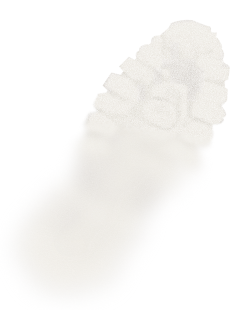
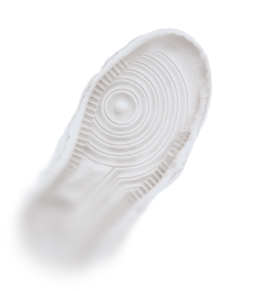
full article degree

Changed region(s): [[0.084, 0.0619, 0.924, 0.9278], [0.728, 0.2784, 0.756, 0.3093]]

diff --git a/src/pages/articals/artical-degree.html b/src/pages/articals/artical-degree.html
@@ -147,7 +147,7 @@
                   <div class="A_CardIconWrap_articals">
                     <img
                       class="Q_CardIcon"
-                      src="https://github.com/HSEADC/Trace/blob/main/src/img/articles/cloth-icon-white.png?raw=true"
+                      src="/src/img/articles/foot-icon-white.png"
                       alt="Иконка карточки"
                     />
                   </div>
@@ -230,21 +230,82 @@
           </div>
         </div>
         <!-- четвертый раздел -->
-         <div class="O_ad_tg">
+        <div class="O_ad_tg">
           <div class="W_Second_screen-Text-Bottom">
             <h1>Может в тг?</h1>
             <h2 class="h2-second-screen">
-              В Telegram-канале пишем экологично, <br>
-без лишнего информационного мусора 
+              В Telegram-канале пишем экологично, <br />
+              без лишнего информационного мусора
             </h2>
             <button class="A_Button A_Button--primary" disabled>
               <a
-                href="https://vk.com/club233568845"
+                href="https://t.me/trace_media"
                 class="A_Button A_Button--primary"
                 >Подписаться</a
               >
             </button>
           </div>
+        </div>
+        <!-- пятый раздел -->
+        <div class="W_final_article">
+          <div class="First_vertical_line_art_degree_block">
+            <h2 class="First_vertical_line_art_degree_h2">Цифры</h2>
+            <div class="W_infographic_article_degree">
+              <div class="infographic_article_degree_1">
+                <img
+                  src="/src/img/articles/infographic_article_degree1.png"
+                  alt="инфографика 1 картинка"
+                />
+                <h2 class="M_infographic_h2">
+                  80% стирки при 30°, 20% в особых случаях. См выше
+                </h2>
+              </div>
+              <div class="infographic_article_degree_2">
+                <img
+                  src="/src/img/articles/infographic_article_degree2.png"
+                  alt="инфографика 2 картинка"
+                />
+                <h2 class="M_infographic_h2">
+                  Около 70% электроэнергии уходит на нагрев воды
+                </h2>
+              </div>
+              <div class="infographic_article_degree_3">
+                <img
+                  src="/src/img/articles/infographic_article_degree3.png"
+                  alt="инфографика 3 картинка"
+                />
+                <h2 class="M_infographic_h2">
+                  При бережной стике вещи живут 20–40% дольше
+                </h2>
+              </div>
+              <div class="infographic_article_degree_4">
+                <img
+                  src="/src/img/articles/infographic_article_degree4.png"
+                  alt=""
+                />
+              </div>
+            </div>
+          </div>
+
+          <div class="Second_vertical_line_art_degree_block">
+            <div class="Second_vertical_line_art_degree_stroke">
+              <h2 class="h2_Second_vertical_line_art_degree_stroke1">
+                Что даёт?
+              </h2>
+              <h2 class="h2_Second_vertical_line_art_degree_stroke2">
+                Меньший углеродный след, экономию энергии и моющих средств,
+                снижение микропластика стоков и продление жизни вещам
+              </h2>
+            </div>
+            <div class="Second_vertical_line_art_degree_stroke">
+              <h2 class="h2_Second_vertical_line_art_degree_stroke1">Вывод</h2>
+              <h2 class="h2_Second_vertical_line_art_degree_stroke2">
+                Стирка при 30 °C — это экологично <br />и выгодно. Спаси планету
+                и заработай вместе с Trace без усилий и вложений
+              </h2>
+            </div>
+          </div>
+        </div>
       </section>
     </main>
     <footer></footer>

diff --git a/src/stylesheets/artical-degree.css b/src/stylesheets/artical-degree.css
@@ -95,10 +95,11 @@ a {
   width: 100%;
   display: flex;
   flex-direction: column;
-  height: 191vw;
+  min-height: 100vh;
   background-image: url(/src/img/articles/article_degree_bg.png);
-  background-size: contain;
+  background-size: cover;
   background-repeat: no-repeat;
+  background-position: top center;
 }
 
 .W_begin_article {
@@ -122,7 +123,7 @@ a {
 
 .Second_vertical_line_art_degree {
   text-align: left;
-  width: 50vw;
+  width: 48vw;
 }
 
 .W_begin_article_2 {
@@ -208,7 +209,69 @@ a {
   background-repeat: no-repeat;
   background-size: contain;
   display: flex;
-  margin: 3vw 0;
+  margin: 3vw 0 3vw 0;
   width: 100%;
   height: auto;
+}
+
+.W_final_article {
+  display: flex;
+  flex-direction: row;
+  height: 70vw;
+  width: 100%;
+  padding: 3vw;
+}
+
+.First_vertical_line_art_degree_block {
+  display: flex;
+  flex-direction: column;
+  width: 50vw;
+  padding: 0vw 0 0 3vw;
+}
+
+.Second_vertical_line_art_degree_block {
+  display: flex;
+  flex-direction: column;
+  width: 44vw;
+}
+.First_vertical_line_art_degree_h2 {
+  text-align: left;
+  width: 25vw;
+  margin-bottom: 9vw;
+}
+
+.W_infographic_article_degree {
+  display: flex;
+  flex-wrap: wrap;
+  height: 44vw;
+  gap: 3vw;
+}
+
+.infographic_article_degree_1,
+.infographic_article_degree_2,
+.infographic_article_degree_3,
+.infographic_article_degree_4 {
+  width: 20vw;
+  height: 20vw;
+  align-content: flex-end;
+}
+
+.M_infographic_h2 {
+  margin-top: 2vw;
+  width: 19vw;
+}
+
+.Second_vertical_line_art_degree_stroke {
+  display: flex;
+  flex-direction: row;
+  gap: 5vw;
+  height: 10vw;
+}
+
+.h2_Second_vertical_line_art_degree_stroke1 {
+  width: 17%;
+}
+
+.h2_Second_vertical_line_art_degree_stroke2 {
+  width: 70%;
 }

diff --git a/src/pages/articles.html b/src/pages/articles.html
@@ -44,19 +44,7 @@
       type="image/x-icon"
     />
   </head>
-  <body>
-    <!-- <a href="../index.html">На главную</a>
-    <h1>Статьи trace о выгодной переработке</h1>
-    <ul>
-      <li>
-        <a href="./articals/artical-degree.html">стирка при 30 градусах</a>
-      </li>
-      <li><a href="./articals/artical-cup.html">складной стакан</a></li>
-      <li><a href="./articals/artical-razer.html">многоразовая бритва</a></li>
-      <li>
-        <a href="./articals/artical-liquid-or-solid.html">Жидкий или твердый</a>
-      </li>
-    </ul> -->
+  <body class="body_articles">
     <header></header>
     <main>
       <!-- первая строка -->

diff --git a/src/stylesheets/articles.css b/src/stylesheets/articles.css
@@ -8,7 +8,7 @@ html {
   margin: calc(1vw / 19.2);
 } /* 100vw / 1440 */
 
-body {
+.body_articles {
   height: auto;
   margin: 0;
   padding: 0;
